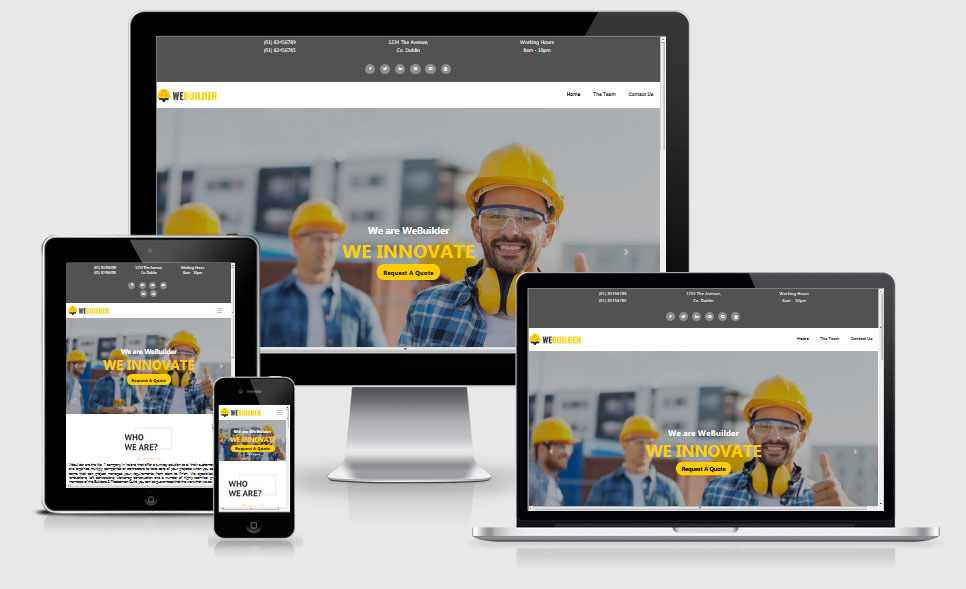
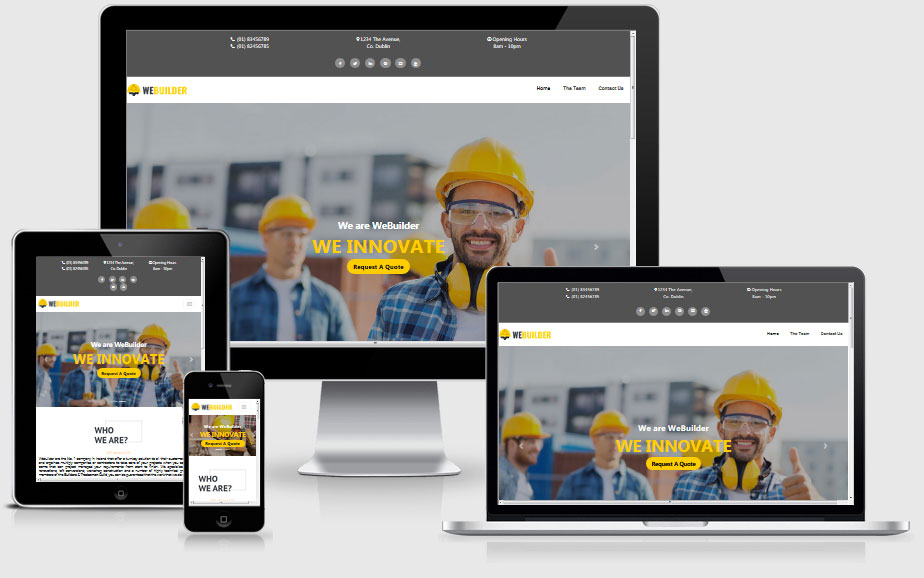
Finalising files for MS1

Changed region(s): [[0.0, 0.0, 1.0, 0.9343]]

diff --git a/contact.html b/contact.html
@@ -20,20 +20,17 @@
 <nav class="container-fluid topbar">
     <div id="nav-details" class="row d-none d-md-block">
             <div class="col-sm-3">
-            <h5 class="uppercase general-sub"></h5>
             <p class="inline-block">
             <i class="fa fa-phone" aria-hidden="true"></i> (01) 83456789<br>
             <i class="fa fa-phone" aria-hidden="true"></i> (01) 82456785
             </p>
         </div>
         <div class="col-sm-3">
-            <h5 class="uppercase general-sub"></h5>
             <p class="inline-block">
-                <i class="fa fa-map-marker" aria-hidden="true"></i>1234 The Avenue,<br>Co. Dublin
+            <i class="fa fa-map-marker" aria-hidden="true"></i>1234 The Avenue,<br>Co. Dublin
             </p>
         </div>
         <div class="col-sm-3">
-            <h5 class="uppercase general-sub"></h5>
             <p class="inline-block">
             <i class="fa fa-clock-o" aria-hidden="true"></i>Opening Hours<br>8am - 10pm
             </p>
@@ -152,14 +149,14 @@
                             </div>
                         </div>
                     </div>
-                    <a class="carousel-control-prev" href="#carouselExampleCaptions" role="button" data-slide="prev">
+                    <a class="carousel-control-prev" href="#carouselExampleFade" role="button" data-slide="prev">
                         <span class="carousel-control-prev-icon" aria-hidden="true"></span>
                         <span class="sr-only">Previous</span>
-                    </a>
-                    <a class="carousel-control-next" href="#carouselExampleCaptions" role="button" data-slide="next">
+                      </a>
+                      <a class="carousel-control-next" href="#carouselExampleFade" role="button" data-slide="next">
                         <span class="carousel-control-next-icon" aria-hidden="true"></span>
                         <span class="sr-only">Next</span>
-                    </a>
+                      </a>
                 </div>
             </div>
         </div>
@@ -171,7 +168,8 @@
     <div class="row">
         <div class="col">
             <form>
-                <div class="form-header"><img src="assets/images/footer-logo.png" alt="WeBuild" title="WeBuilder Logo"/></div>
+                <div class="form-header"><img src="assets/images/footer-logo.png" alt="WeBuild"
+                        title="WeBuilder Logo" /></div>
                 <div class="form-header-text">
                     <div class="footer-icon-space">
                         <i class="fa fa-map-marker" aria-hidden="true"></i>1234 The Avenue, Co. Dublin</div>
@@ -182,20 +180,21 @@
                 </div>
                 <div class="form-group">
                     <label for="formGroupExampleInput">Your Name</label>
-                    <input type="text" class="form-control" id="formGroupExampleInput" placeholder="Type in Your Name">
+                    <input type="text" class="form-control" id="formGroupExampleInput" placeholder="Type in Your Name"
+                        required>
                 </div>
                 <div class="form-group">
                     <label for="exampleInputEmail1">Your Email Address</label>
                     <input type="email" class="form-control" id="exampleInputEmail1" aria-describedby="emailHelp"
-                        placeholder="Type In Your Email">
+                        placeholder="Type In Your Email" required>
                     <small id="emailHelp" class="form-text text-muted">We'll never share your email with anyone
                         else.</small>
                 </div>
                 <div class="form-group">
                     <label for="exampleFormControlTextarea1">Your Enquiry</label>
                     <textarea class="form-control" id="exampleFormControlTextarea1" rows="10"></textarea>
-                  </div>
-                     <button type="submit" class="btn btn-primary">Submit</button>
+                </div>
+                <button type="submit" class="btn btn-primary">Submit</button>
             </form>
 
         </div>
@@ -320,6 +319,8 @@
             </div>
         </div>
     </div>
+    
+    
     <!--Modal Section-->
 <div class="modal" tabindex="-1" role="dialog" id="requestaquote">
     <div class="modal-dialog" role="document">
@@ -342,9 +343,9 @@
                     </div>
                     <div class="form-group">
                         <label for="exampleInputEmail1">Email address</label>
-                        <input type="email" class="form-control" id="exampleInputEmail1" aria-describedby="emailHelp"
+                        <input type="email" class="form-control" id="exampleInputEmail2" aria-describedby="emailHelp"
                             placeholder="Enter email">
-                        <small id="emailHelp" class="form-text text-muted">We'll never share your email with
+                        <small id="emailHelp2" class="form-text text-muted">We'll never share your email with
                             anyone else.</small>
                     </div>
                     <div class="form-group">

diff --git a/theteam.html b/theteam.html
@@ -20,21 +20,18 @@
 <nav class="container-fluid topbar">
     <div id="nav-details" class="row d-none d-md-block">
             <div class="col-sm-3">
-            <h5 class="uppercase general-sub"></h5>
-            <p class="inline-block">
+                <p class="inline-block">
                 <i class="fa fa-phone" aria-hidden="true"></i> (01) 83456789<br>
                 <i class="fa fa-phone" aria-hidden="true"></i> (01) 82456785
             </p>
         </div>
         <div class="col-sm-3">
-            <h5 class="uppercase general-sub"></h5>
-            <p class="inline-block">
+                <p class="inline-block">
                 <i class="fa fa-map-marker" aria-hidden="true"></i>1234 The Avenue,<br>Co. Dublin
             </p>
         </div>
         <div class="col-sm-3">
-            <h5 class="uppercase general-sub"></h5>
-            <p class="inline-block">
+                <p class="inline-block">
                 <i class="fa fa-clock-o" aria-hidden="true"></i>Opening Hours<br>8am - 10pm
             </p>
         </div>
@@ -87,7 +84,7 @@
         <div class="col">
             <nav class="navbar navbar-expand-lg navbar-light bg-light">
                 <a class="navbar-brand" href="index.html"><img class="img-fluid" src="assets/images/logo.png"
-                        alt="WeBuilder Logo" title="WeBuilder Logo" title="WeBuilder Logo"></a>
+                        alt="WeBuilder Logo" title="WeBuilder Logo"></a>
                 <button class="navbar-toggler" type="button" data-toggle="collapse"
                     data-target="#navbarSupportedContent" aria-controls="navbarSupportedContent" aria-expanded="false"
                     aria-label="Toggle navigation">
@@ -166,7 +163,7 @@
     </div>
 </div>
 
-
+<!--Our Team Section Section-->
 <div class="container ourteam">
         <div class="row">
             <div class="col-12">
@@ -176,7 +173,7 @@
         </div>        
     </div>
 
-
+<!--Staff Images and Working Information Section-->
     <div class="container ourteam2">
         <div class="row">
             <div class="col-md-4">
@@ -367,7 +364,7 @@
                 </button>
             </div>
 
-
+<!--Modal Section-->
             <div class="modal-body">
                 <form>
                     <div class="form-group">

diff --git a/assets/css/style.css b/assets/css/style.css
@@ -152,7 +152,6 @@ This is the CSS control for the "Request A Quote" button
 .btn--yellow:focus,
 .btn--yellow:active:focus {
   background-color: #edc938;
-  /* border-color: #edc938; */
   color: black;
   }
 
@@ -330,9 +329,9 @@ This is the CSS control for the Footer section
 
   a:link {
     color: #fff;
-    font-family: -apple-system,BlinkMacSystemFont,"Segoe UI",Roboto,"Helvetica Neue",Arial,"Noto Sans",sans-serif,"Apple Color Emoji","Segoe UI Emoji","Segoe UI Symbol","Noto Color Emoji";
-    font-size: 1rem;
-    font-weight: 400;
+    font-family: "Roboto", sans-serif;
+    font-size: 16px;
+    font-weight: 300;
     }
   
     a:visited {
@@ -342,12 +341,6 @@ This is the CSS control for the Footer section
     a:hover {
       color: #ffcd00;
     }
-
-
-
-
-
-
 
 /*
   
@@ -514,7 +507,7 @@ This is the CSS control for the media Queries
 
   .colright {
     text-align: right;
-    padding: 0 10px 0 30px 0;
+    padding: 0 10px 0 30px;
     }
   
   .colleft {
@@ -555,7 +548,6 @@ This is the CSS control for The Contact Page
   margin-top: 30px;
   margin-bottom: 30px;
   background-color: #ffcd00;
-  /* border: 1px solid #ced4da;*/
   font-family: "Roboto", sans-serif;
   font-weight: 500;
   box-shadow: 0 4px 8px 0 rgba(0, 0, 0, 0.2), 0 6px 20px 0 rgba(0, 0, 0, 0.19);
@@ -714,7 +706,7 @@ This is the CSS control for the media Queries on The Team Page
 
 /* 
 ============================================================================================
-This is the CSS control for The Contact Page 
+This is the CSS control for the media queries on The Contact Page 
 ============================================================================================
 */ 
 
@@ -725,7 +717,6 @@ This is the CSS control for The Contact Page
   margin-top: 30px;
   margin-bottom: 30px;
   background-color: #ffcd00;
-  /* border: 1px solid #ced4da;*/
   font-family: "Roboto", sans-serif;
   font-weight: 500;
   box-shadow: 0 4px 8px 0 rgba(0, 0, 0, 0.2), 0 6px 20px 0 rgba(0, 0, 0, 0.19);

diff --git a/index.html b/index.html
@@ -20,21 +20,18 @@
 <nav class="container-fluid topbar">
     <div id="nav-details" class="row d-none d-md-block">
             <div class="col-sm-3">
-            <h5 class="uppercase general-sub"></h5>
             <p class="inline-block">
             <i class="fa fa-phone" aria-hidden="true"></i> (01) 83456789<br>
             <i class="fa fa-phone" aria-hidden="true"></i> (01) 82456785
             </p>
         </div>
         <div class="col-sm-3">
-            <h5 class="uppercase general-sub"></h5>
-            <p class="inline-block">
+             <p class="inline-block">
             <i class="fa fa-map-marker" aria-hidden="true"></i>1234 The Avenue,<br>Co. Dublin
             </p>
         </div>
         <div class="col-sm-3">
-            <h5 class="uppercase general-sub"></h5>
-            <p class="inline-block">
+             <p class="inline-block">
             <i class="fa fa-clock-o" aria-hidden="true"></i>Opening Hours<br>8am - 10pm
             </p>
         </div>
